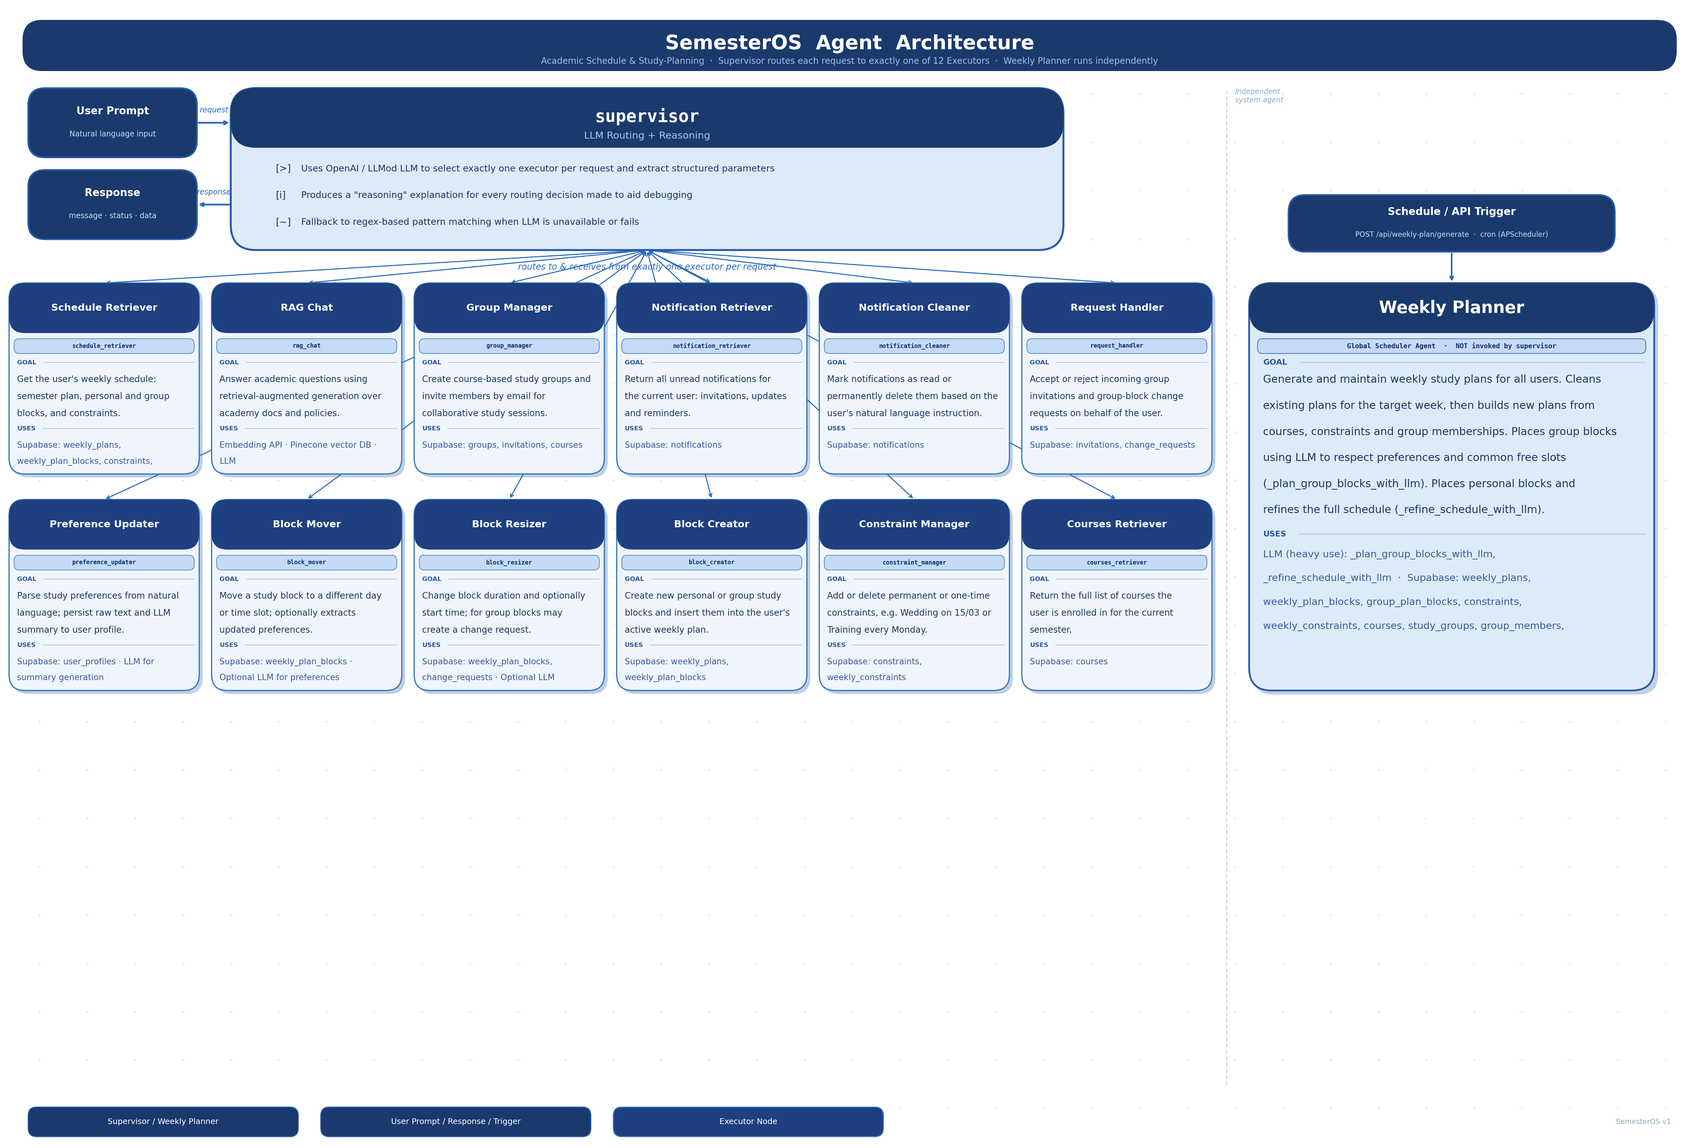
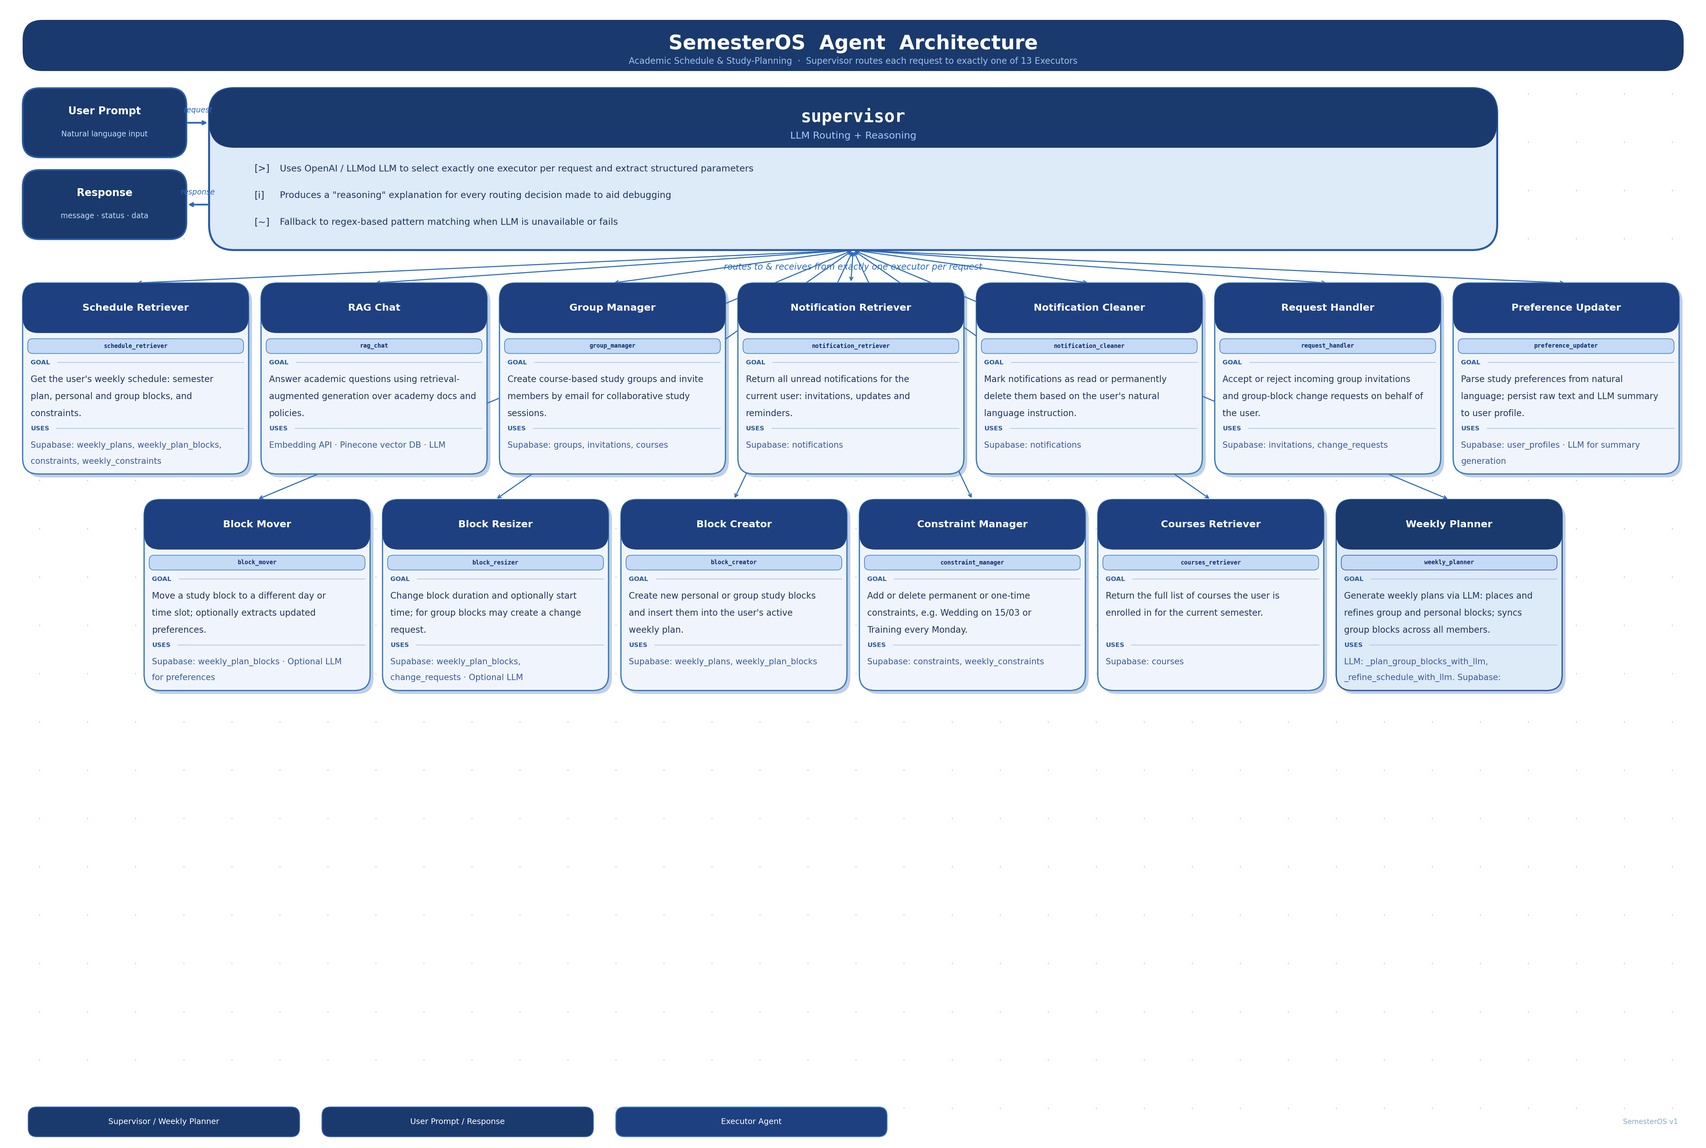
fix weekly planner

diff --git a/app/main.py b/app/main.py
@@ -11795,18 +11795,19 @@ You can run weekly planning manually (e.g. POST /api/system/weekly-plan/generate
 Supervisor: The Supervisor is the main routing component that receives user requests in natural language (English or Hebrew) and uses LLM with reasoning to determine which specialized executor should handle the request. It extracts required parameters from the user's prompt and routes the task to the appropriate executor. Please note that the system is based on Hebrew-language information and documents, so Hebrew prompts are preferred, especially for RAG-based chat queries which retrieve information from Hebrew academic documents.
 
 Specialized Executors (routed by Supervisor):
-1. schedule_retriever: Retrieves and formats weekly schedules including personal blocks, group blocks, and constraints. Merges consecutive blocks and displays schedule in readable format.
-2. block_creator: Creates new study blocks (personal or group) and adds them to the schedule. Validates conflicts with existing blocks and hard constraints. For group blocks, creates change requests requiring approval. Learns and updates the hour distribution (personal/group hours per week) that the user needs for each course.
-3. block_mover: Moves existing study blocks to different days/times. Personal blocks are moved immediately; group blocks require change requests with member approval.
-4. block_resizer: Changes the duration of existing study blocks. Personal blocks are resized immediately; group blocks require change requests with member approval. Learns and updates the hour distribution (personal/group hours per week) that the user needs for each course.
-5. constraint_manager: Manages schedule constraints (permanent or one-time). Adds constraints that block time slots from being used for study blocks.
-6. group_manager: Creates study groups for courses and invites members via email. Validates that invites are sent to registered users enrolled in the course.
-7. preference_updater: Updates user study preferences from natural language input. Appends preferences to existing ones and uses LLM to generate structured summaries.
-8. rag_chat: Answers academic and informational questions using RAG over embedded academic documents. Provides context-aware responses based on retrieved information.
-9. request_handler: Handles approval/rejection of group invitations and group change requests. Finds requests by various criteria and applies changes when all members approve.
-10. courses_retriever: Retrieves and displays all courses the user is enrolled in for the current semester, including course numbers, names, and credit points.
-11. notification_retriever: Retrieves unread notifications for the user, including group invitations, change requests, and other system notifications.
-12. notification_cleaner: Marks all unread notifications as read.
+1. Weekly Planner: Ideally the Weekly Planner would be a separate, parallel agent (not under the Supervisor) that runs automatically once per week. Due to system constraints (the server cannot be assumed to be up at all times), we also expose it as an executor under the Supervisor so reviewers can run it via POST /api/execute and inspect the steps—including the smart use of the LLM for planning. This executor is allowed only from May onwards (to avoid overwriting schedules that were already generated through the end of April). The planner uses the LLM in two layers: (1) Group blocks: it plans group study blocks globally with the LLM, finding common free time across all group members and synchronizing them so every member has the same group meeting times. (2) Personal blocks: it then plans personal study blocks per user, again using the LLM to place and refine blocks according to user preferences (from natural language), course hour distribution, and remaining free slots, while respecting hard constraints and avoiding conflicts.
+2. schedule_retriever: Retrieves and formats weekly schedules including personal blocks, group blocks, and constraints. Merges consecutive blocks and displays schedule in readable format.
+3. block_creator: Creates new study blocks (personal or group) and adds them to the schedule. Validates conflicts with existing blocks and hard constraints. For group blocks, creates change requests requiring approval. Learns and updates the hour distribution (personal/group hours per week) that the user needs for each course.
+4. block_mover: Moves existing study blocks to different days/times. Personal blocks are moved immediately; group blocks require change requests with member approval.
+5. block_resizer: Changes the duration of existing study blocks. Personal blocks are resized immediately; group blocks require change requests with member approval. Learns and updates the hour distribution (personal/group hours per week) that the user needs for each course.
+6. constraint_manager: Manages schedule constraints (permanent or one-time). Adds constraints that block time slots from being used for study blocks.
+7. group_manager: Creates study groups for courses and invites members via email. Validates that invites are sent to registered users enrolled in the course.
+8. preference_updater: Updates user study preferences from natural language input. Appends preferences to existing ones and uses LLM to generate structured summaries.
+9. rag_chat: Answers academic and informational questions using RAG over embedded academic documents. Provides context-aware responses based on retrieved information.
+10. request_handler: Handles approval/rejection of group invitations and group change requests. Finds requests by various criteria and applies changes when all members approve.
+11. courses_retriever: Retrieves and displays all courses the user is enrolled in for the current semester, including course numbers, names, and credit points.
+12. notification_retriever: Retrieves unread notifications for the user, including group invitations, change requests, and other system notifications.
+13. notification_cleaner: Marks all unread notifications as read.
 
 Authentication: The web application and API use authentication backed by Supabase: users log in with credentials stored in the database and receive a token for authorized requests. A token is normally required so that each request is tied to a specific user and their data (schedule, courses, notifications). We also allow connecting without a token (super-user mode) for the minimal UI on the site: visitors can use the simplified interface and try the agent without signing up or logging in, for demos and simulation.""",
         "purpose": """The overarching purpose of the SemesterOS agent system is to help students map, manage, and optimize their time throughout the semester and to get reliable answers about academic documents and procedures. The system reduces the cognitive load of planning and organizing study schedules, coordinates personal and group study time, and saves time by automating schedule generation, preference learning, and routine management tasks. The system also offers a chat that uses RAG over academic documents, so students can get answers and clarify rules, regulations, and course-related information without leaving the system - so students can focus on learning rather than on managing calendars or hunting for official information.""",
@@ -12414,6 +12415,46 @@ Authentication: The web application and API use authentication backed by Supabas
                             "new_start_time": "14:00",
                             "new_end_time": "15:00",
                             "preferences_updated": True
+                        }
+                    }
+                ]
+            },
+            {
+                "prompt": "run weekly plan for week start at 12/05/2026",
+                "full_response": "Weekly plans generated for all users (week_start=2026-05-10)",
+                "steps": [
+                    {
+                        "module": "supervisor",
+                        "prompt": {
+                            "user_prompt": "run weekly plan for week start at 12/05/2026",
+                            "routing_type": "llm"
+                        },
+                        "response": {
+                            "executor": "weekly_planner",
+                            "params": {
+                                "week_start": "2026-05-12"
+                            },
+                            "llm_response": "{\n  \"executor_name\": \"weekly_planner\",\n  \"executor_params\": {\n    \"week_start\": \"2026-05-12\"\n  },\n  \"reasoning\": \"User asked to 'run weekly plan' for a specific week; weekly_planner is the correct executor. Extracted the provided date 12/05/2026 and normalized it to YYYY-MM-DD as the week_start.\"\n}",
+                            "reasoning": "User asked to 'run weekly plan' for a specific week; weekly_planner is the correct executor. Extracted the provided date 12/05/2026 and normalized it to YYYY-MM-DD as the week_start."
+                        }
+                    },
+                    {
+                        "module": "weekly_planner",
+                        "prompt": {
+                            "user_prompt": "run weekly plan for week start at 12/05/2026",
+                            "week_start": "2026-05-12"
+                        },
+                        "response": {
+                            "status": "success",
+                            "message": "Weekly plans generated for all users (week_start=2026-05-10)",
+                            "response": "Weekly plans generated for all users (week_start=2026-05-10)",
+                            "week_start": "2026-05-10",
+                            "planning_steps": [
+                                "Cleanup existing plans and blocks for the week",
+                                "Plan group blocks with LLM (common free slots, sync across members)",
+                                "Plan and refine personal blocks with LLM (preferences, hour distribution)",
+                                "Sync group blocks to all members"
+                            ]
                         }
                     }
                 ]

diff --git a/app/agents/executors/weekly_planner.py b/app/agents/executors/weekly_planner.py
@@ -1,0 +1,131 @@
+"""
+Weekly Planner Executor
+Triggers weekly plan generation for all users (same as POST /api/system/weekly-plan/generate).
+Only allowed for weeks from May 2026 onwards to avoid overwriting existing schedules.
+"""
+import logging
+import re
+from datetime import datetime, timedelta
+from typing import Dict, Any, Optional
+
+logger = logging.getLogger(__name__)
+
+# First date allowed for weekly plan generation via execute (May 1, 2026)
+WEEKLY_PLANNER_MIN_DATE = "2026-05-01"
+
+
+def _parse_date_to_week_start(date_str: str) -> str:
+    """
+    Parse a date string in various formats and return the Sunday (week start) of that week.
+    Supports: YYYY-MM-DD, YYYY/MM/DD, DD/MM/YY, DD/MM/YYYY.
+    """
+    date_str = (date_str or "").strip()
+    if not date_str:
+        raise ValueError("Date or week_start is required")
+    dt = None
+    # YYYY-MM-DD or YYYY/MM/DD
+    for sep in ["-", "/"]:
+        try:
+            if sep in date_str and len(date_str) >= 10:
+                parts = date_str.replace("/", "-").split("-")
+                if len(parts) == 3 and len(parts[0]) == 4:  # YYYY first
+                    dt = datetime(int(parts[0]), int(parts[1]), int(parts[2]))
+                    break
+                if len(parts) == 3 and len(parts[2]) <= 2:  # DD/MM/YY
+                    y = int(parts[2])
+                    year = 2000 + y if y < 100 else y
+                    dt = datetime(year, int(parts[1]), int(parts[0]))
+                    break
+        except (ValueError, IndexError):
+            continue
+    if dt is None:
+        # Try DD/MM/YY or DD/MM/YYYY
+        match = re.search(r"(\d{1,2})[/\-](\d{1,2})[/\-](\d{2,4})", date_str)
+        if match:
+            d, m, y = int(match.group(1)), int(match.group(2)), int(match.group(3))
+            year = 2000 + y if y < 100 else y
+            dt = datetime(year, m, d)
+    if dt is None:
+        raise ValueError(f"Could not parse date: {date_str}. Use YYYY-MM-DD or DD/MM/YY.")
+    # Week starts on Sunday: (weekday()+1)%7 gives days since Sunday (Sun=0)
+    days_since_sunday = (dt.weekday() + 1) % 7
+    sunday = dt - timedelta(days=days_since_sunday)
+    return sunday.strftime("%Y-%m-%d")
+
+
+class WeeklyPlannerExecutor:
+    """
+    Executor that runs the global weekly plan generation (same as system endpoint).
+    Allowed only for week_start >= May 2026.
+    """
+
+    def __init__(self):
+        self.module_name = "weekly_planner"
+
+    async def execute(
+        self,
+        user_id: str,
+        week_start: Optional[str] = None,
+        date: Optional[str] = None,
+        **kwargs
+    ) -> Dict[str, Any]:
+        """
+        Run weekly plan generation for all users for the given week.
+        week_start: YYYY-MM-DD (Sunday). date: any date in the week (will be normalized to Sunday).
+        """
+        try:
+            raw = week_start or date
+            if not raw:
+                return {
+                    "status": "error",
+                    "message": "Please specify a week (e.g. week_start or date). Example: 'run weekly plan for week starting 03/05/26'.",
+                    "response": "Please specify a week (e.g. week_start or date).",
+                }
+            week_start_str = _parse_date_to_week_start(raw)
+            if week_start_str < WEEKLY_PLANNER_MIN_DATE:
+                return {
+                    "status": "error",
+                    "message": "Weekly plan generation via the agent is only available from May 2026 onwards to avoid overwriting existing schedules.",
+                    "response": "Weekly plan generation is only available from May 2026 onwards.",
+                    "week_start": week_start_str,
+                }
+            # Lazy import to avoid circular import (main imports supervisor -> executors)
+            from app.main import _run_weekly_auto_for_all_users
+            await _run_weekly_auto_for_all_users(week_start_override=week_start_str)
+            planning_steps = [
+                "Cleanup existing plans and blocks for the week",
+                "Plan group blocks with LLM (common free slots, sync across members)",
+                "Plan and refine personal blocks with LLM (preferences, hour distribution)",
+                "Sync group blocks to all members",
+            ]
+            return {
+                "status": "success",
+                "message": f"Weekly plans generated for all users (week_start={week_start_str})",
+                "response": f"Weekly plans generated for all users (week_start={week_start_str})",
+                "week_start": week_start_str,
+                "planning_steps": planning_steps,
+            }
+        except ValueError as e:
+            return {
+                "status": "error",
+                "message": str(e),
+                "response": str(e),
+            }
+        except Exception as e:
+            logger.exception("Weekly planner execution failed")
+            return {
+                "status": "error",
+                "message": str(e) if str(e) else "Weekly plan generation failed",
+                "response": str(e) if str(e) else "Weekly plan generation failed",
+            }
+
+    def get_step_log(
+        self,
+        prompt: Dict[str, Any],
+        response: Dict[str, Any]
+    ) -> Dict[str, Any]:
+        return {
+            "module": self.module_name,
+            "prompt": prompt,
+            "response": response
+        }

diff --git a/app/agents/llm_client.py b/app/agents/llm_client.py
@@ -250,6 +250,7 @@ Available executors:
 - IMPORTANT: If user says "from X:00 to Y:00" and wants to change it to "from X:00 to Z:00" where Z < Y (or Z > Y), this is a RESIZE (changing duration), not a move. Choose block_resizer, not block_mover.
 - block_creator: Create a NEW study block and add it to the schedule. Use this when the user wants to ADD a new block that doesn't exist yet (e.g., "add a 2-hour block for אלגוריתמים on Monday at 10:00", "create a new study session for course 10403 on Wednesday 14:00", "add 3 hours for מבני נתונים on Thursday starting at 08:00"). Requires: course_name or course_number, day_of_week (0-6, where 0=Sunday), start_time (HH:MM format). Optional: duration (default 1 hour), work_type ("personal" or "group", default "personal"), week_start (YYYY-MM-DD format, defaults to current week). This creates a NEW block, not moving or resizing an existing one.
 - constraint_manager: Add or delete constraints to/from user's schedule (permanent or one-time). Use this when the user wants to add a constraint (e.g., "I have training on Monday 18:00-20:00", "I work every Tuesday 14:00-16:00", "I have a meeting on Wednesday 10:00-11:00 this week") or delete a constraint (e.g., "delete my training constraint", "remove the work constraint", "delete the supermarket constraint"). For adding: Requires: action="add" (default), title (constraint name, e.g., "אימון", "עבודה"), start_time (HH:MM format), end_time (HH:MM format), days (list of days 0-6) or day_of_week (single day 0-6). Optional: description, is_permanent (True for permanent/recurring constraint, False for one-time, default: False if not specified), week_start (YYYY-MM-DD format for one-time constraints, defaults to current week), date (specific date YYYY-MM-DD for one-time constraints, will be converted to week_start). All constraints are hard constraints (always True). If user doesn't specify "permanent" or "recurring", it's one-time. The system will check for conflicts with existing constraints (rejects) and existing schedule (warns but allows). For deleting: Requires: action="delete", constraint_id (optional, UUID) or title (constraint name to find and delete). Optional: is_permanent (True for permanent, False for one-time, if not specified will search both), week_start (for one-time constraints), date (specific date for one-time constraints, will be converted to week_start). If multiple constraints match the title, constraint_id must be provided.
+- weekly_planner: Generate weekly study plans for all users (system-style). Use when the user asks to run/generate weekly planning, build the weekly schedule, or "תכנון לוז שבועי" / "הרץ תכנון שבועי". Optional: week_start (YYYY-MM-DD, Sunday of the week) or date (any date in the week – will be normalized to that week's Sunday). Only weeks from May 2026 onwards are allowed; earlier dates will return an error. Extract date from phrases like "for week starting 03/05/26", "שבוע שמתחיל ב-03/05/26", "2026-05-03".
 
 IMPORTANT: When extracting parameters for block_mover, also analyze the user_prompt for any preferences or explanations:
 - If the user mentions preferences like "I prefer to study late", "I like morning study", "I don't like studying on day X", etc., include the full user_prompt in executor_params so the backend can extract and save these preferences.
@@ -269,6 +270,9 @@ Extract all relevant parameters from the user's request. If a parameter is missi
 
 For schedule_retriever:
 - Extract date (optional) - look for YYYY-MM-DD or YYYY/MM/DD format. Examples: "2026-02-08", "2026/02/08". If not provided, assume current week.
+
+For weekly_planner:
+- Extract week_start (optional) or date (optional) - the week to generate plans for. Look for "week starting 03/05/26", "שבוע שמתחיל ב-03/05/26", "2026-05-03", "05/03/26". Normalize to YYYY-MM-DD (Sunday). If user gives a date that is not Sunday, the backend will normalize to that week's Sunday. Only weeks from May 2026 onwards are allowed.
 
 For block_mover:
 - Extract block_id (optional) - look for UUID or block identifier. If not provided, use course_name/course_number + original_day + original_start_time + week_start to find the block.

diff --git a/app/agents/supervisor.py b/app/agents/supervisor.py
@@ -18,6 +18,7 @@ from app.agents.executors.block_creator import BlockCreator
 from app.agents.executors.constraint_manager import ConstraintManager
 from app.agents.executors.courses_retriever import CoursesRetriever
 from app.agents.executors.rag_chat import RAGChatExecutor
+from app.agents.executors.weekly_planner import WeeklyPlannerExecutor
 from app.agents.llm_client import LLMClient
 
 logger = logging.getLogger(__name__)
@@ -59,6 +60,7 @@ class Supervisor:
             "constraint_manager": ConstraintManager(),
             "courses_retriever": CoursesRetriever(),
             "rag_chat": RAGChatExecutor(),
+            "weekly_planner": WeeklyPlannerExecutor(),
         }
         self.module_name = "supervisor"
         self.llm_client = LLMClient()
@@ -253,6 +255,21 @@ class Supervisor:
         Returns (executor_name, executor_params)
         """
         prompt_lower = user_prompt.lower()
+        
+        # Weekly planner patterns (before schedule - "generate weekly plan" vs "show schedule")
+        if any(phrase in prompt_lower for phrase in [
+            "weekly plan", "generate weekly", "run weekly plan", "build weekly",
+            "תכנון שבועי", "תכנון לוז שבועי", "בנה לוז שבועי", "הרץ תכנון שבועי"
+        ]):
+            date_match = re.search(r'(\d{4}[-/]\d{1,2}[-/]\d{1,2})', user_prompt)
+            if date_match:
+                raw = date_match.group(1).replace("/", "-")
+            else:
+                date_match = re.search(r'(\d{1,2})[/\-](\d{1,2})[/\-](\d{2,4})', user_prompt)
+                raw = f"{date_match.group(1)}/{date_match.group(2)}/{date_match.group(3)}" if date_match else None
+            if raw:
+                return "weekly_planner", {"week_start": raw, "date": raw}
+            return "weekly_planner", {}
         
         # Schedule retriever patterns
         if any(word in prompt_lower for word in ["schedule", "לוז", "מערכת", "show schedule", "הצג לוז"]):
